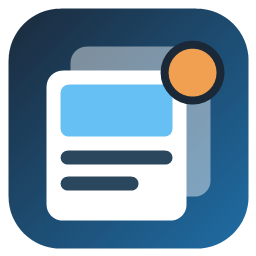
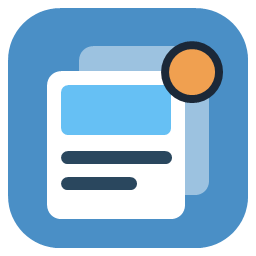
图标换成和安卓 Steam信息流 一样的；窗口和标题栏用多尺寸图标，不再发糊

diff --git a/windows/SteamNewsFeed/MainWindow.xaml b/windows/SteamNewsFeed/MainWindow.xaml
@@ -12,8 +12,7 @@
                  UseLayoutRounding="True"
                  TextOptions.TextFormattingMode="Display"
                  TextOptions.TextRenderingMode="ClearType"
-                 RenderOptions.ClearTypeHint="Enabled"
-                 Icon="pack://application:,,,/SteamNewsFeed;component/SteamNewsFeed/icon.png">
+                 RenderOptions.ClearTypeHint="Enabled">
     <ui:FluentWindow.Resources>
         <Style x:Key="NavButton" TargetType="ui:Button" BasedOn="{StaticResource {x:Type ui:Button}}">
             <Setter Property="HorizontalAlignment" Value="Stretch"/>
@@ -55,7 +54,7 @@
 
         <ui:TitleBar Grid.Row="0" Title="Steam 新闻聚合">
             <ui:TitleBar.Icon>
-                <ui:ImageIcon Source="pack://application:,,,/SteamNewsFeed;component/SteamNewsFeed/icon.png"/>
+                <ui:ImageIcon x:Name="TitleIcon" RenderOptions.BitmapScalingMode="HighQuality"/>
             </ui:TitleBar.Icon>
         </ui:TitleBar>
 

diff --git a/windows/SteamNewsFeed/MainWindow.xaml.cs b/windows/SteamNewsFeed/MainWindow.xaml.cs
@@ -9,6 +9,7 @@ using System.Windows.Controls;
 using System.Windows.Documents;
 using System.Windows.Interop;
 using System.Windows.Media;
+using System.Windows.Media.Imaging;
 using System.Windows.Threading;
 using Wpf.Ui.Appearance;
 using Wpf.Ui.Controls;
@@ -48,9 +49,45 @@ public partial class MainWindow : FluentWindow
 
 	private int _unread;
 
+	private BitmapFrame[] _iconFrames = new BitmapFrame[0];
+
+	/// <summary>
+	/// 窗口 / 任务栏图标用多尺寸的 app.ico（Windows 按需要的大小挑一档），标题栏的小图标按屏幕缩放挑最接近的一档，
+	/// 不把 256 像素的大图缩小显示（那样会糊）。
+	/// </summary>
+	private void LoadIcons()
+	{
+		try
+		{
+			using Stream s = typeof(MainWindow).Assembly.GetManifestResourceStream("SteamNewsFeed.app.ico");
+			var decoder = new IconBitmapDecoder(s, BitmapCreateOptions.PreservePixelFormat, BitmapCacheOption.OnLoad);
+			_iconFrames = decoder.Frames.OrderBy(f => f.PixelWidth).ToArray();
+			Icon = decoder.Frames[0];
+			UpdateTitleIcon();
+			DpiChanged += delegate { UpdateTitleIcon(); };
+			Loaded += delegate { UpdateTitleIcon(); };
+		}
+		catch (Exception ex)
+		{
+			Logger.Log("读取图标失败：" + ex.Message);
+		}
+	}
+
+	private void UpdateTitleIcon()
+	{
+		if (_iconFrames.Length == 0)
+		{
+			return;
+		}
+		double scale = VisualTreeHelper.GetDpi(this).DpiScaleX;
+		int want = (int)Math.Ceiling(16 * scale);
+		TitleIcon.Source = _iconFrames.FirstOrDefault(f => f.PixelWidth >= want) ?? _iconFrames[_iconFrames.Length - 1];
+	}
+
 	public MainWindow()
 	{
 		InitializeComponent();
+		LoadIcons();
 		_pages = new FrameworkElement[] { PageFeed, PageSettings };
 		_feed = new FeedView(this);
 		PageFeed.Child = _feed;

diff --git a/CHANGELOG.md b/CHANGELOG.md
@@ -2,6 +2,12 @@
 
 格式参考 [Keep a Changelog](https://keepachangelog.com/zh-CN/1.1.0/)，版本号遵循 [语义化版本](https://semver.org/lang/zh-CN/)。
 
+## [1.0.4] - 2026-11-11
+
+### 修改
+- 图标换成和安卓「Steam信息流」一样的（Steam 蓝底），每个尺寸单独绘制。
+- 窗口、任务栏、标题栏的图标改用多尺寸图标，不再把大图缩小显示，不发糊了。
+
 ## [1.0.3] - 2026-11-11
 
 ### 修改
